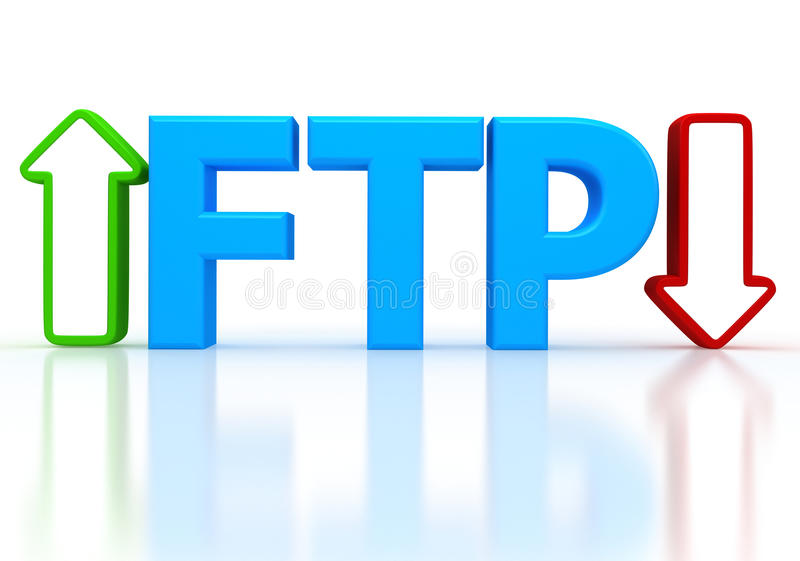
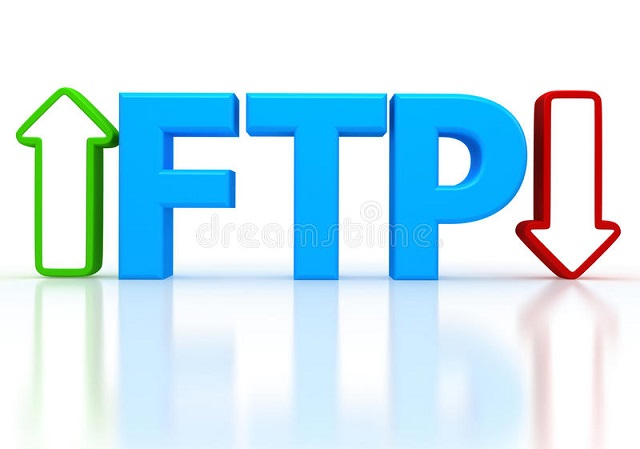
Site updated: 2018-05-23 02:54:47

diff --git a/2017/10/02/Linux/Ubuntu 16.04安装ftp-server/index.html b/2017/10/02/Linux/Ubuntu 16.04安装ftp-server/index.html
@@ -9,13 +9,14 @@
   <title>Ubuntu 16.04安装ftp-server | aparke&#39;s blog</title>
   <meta name="viewport" content="width=device-width, initial-scale=1, maximum-scale=1">
   <meta name="description" content="Welcome to aparke’s blog!">
+<meta name="keywords" content="Linux">
 <meta property="og:type" content="article">
 <meta property="og:title" content="Ubuntu 16.04安装ftp-server">
 <meta property="og:url" content="http://aparke.cn/2017/10/02/Linux/Ubuntu 16.04安装ftp-server/index.html">
 <meta property="og:site_name" content="aparke&#39;s blog">
 <meta property="og:description" content="Welcome to aparke’s blog!">
 <meta property="og:locale" content="zh-cn">
-<meta property="og:image" content="http://aparke.cn/2017/10/02/Linux/Ubuntu%2016.04安装ftp-server/ftp001.jpg">
+<meta property="og:image" content="http://aparke.cn/2017/10/02/Linux/Ubuntu%2016.04安装ftp-server/ftp000.jpg">
 <meta property="og:image" content="http://aparke.cn/2017/10/02/Linux/Ubuntu%2016.04安装ftp-server/ftp工作原理.jpg">
 <meta property="og:image" content="http://aparke.cn/2017/10/02/Linux/Ubuntu%2016.04安装ftp-server/01.jpg">
 <meta property="og:image" content="http://aparke.cn/2017/10/02/Linux/Ubuntu%2016.04安装ftp-server/version.jpg">
@@ -30,12 +31,12 @@
 <meta property="og:image" content="http://aparke.cn/2017/10/02/Linux/Ubuntu%2016.04安装ftp-server/10.jpg">
 <meta property="og:image" content="http://aparke.cn/2017/10/02/Linux/Ubuntu%2016.04安装ftp-server/11.jpg">
 <meta property="og:image" content="http://aparke.cn/2017/10/02/Linux/Ubuntu%2016.04安装ftp-server/ftp002.jpg">
-<meta property="og:image" content="http://aparke.cn/2017/10/02/Linux/Ubuntu%2016.04安装ftp-server/ftp000.jpg">
-<meta property="og:updated_time" content="2018-05-22T18:47:43.115Z">
+<meta property="og:image" content="http://aparke.cn/2017/10/02/Linux/Ubuntu%2016.04安装ftp-server/ftp001.jpg">
+<meta property="og:updated_time" content="2018-05-22T18:54:37.154Z">
 <meta name="twitter:card" content="summary">
 <meta name="twitter:title" content="Ubuntu 16.04安装ftp-server">
 <meta name="twitter:description" content="Welcome to aparke’s blog!">
-<meta name="twitter:image" content="http://aparke.cn/2017/10/02/Linux/Ubuntu%2016.04安装ftp-server/ftp001.jpg">
+<meta name="twitter:image" content="http://aparke.cn/2017/10/02/Linux/Ubuntu%2016.04安装ftp-server/ftp000.jpg">
   
     <link rel="alternative" href="/atom.xml" title="aparke&#39;s blog" type="application/atom+xml">
   
@@ -224,7 +225,7 @@ var _hmt = _hmt || [];
     
     <div class="article-entry" itemprop="articleBody">
       
-        <p>Welcome to <a href="http://aparke.cn">aparke’s blog</a>!<br><img src="/2017/10/02/Linux/Ubuntu 16.04安装ftp-server/ftp001.jpg" alt=""><br><a id="more"></a></p>
+        <p>Welcome to <a href="http://aparke.cn">aparke’s blog</a>!<br><img src="/2017/10/02/Linux/Ubuntu 16.04安装ftp-server/ftp000.jpg" alt=""><br><a id="more"></a></p>
 <h3 id="前言"><a href="#前言" class="headerlink" title="前言"></a>前言</h3><blockquote>
 <p><strong>简单介绍以下FTP</strong></p>
 </blockquote>
@@ -317,7 +318,7 @@ var _hmt = _hmt || [];
 <p>浏览器：<code>ftp://111.230.107.42</code></p>
 </blockquote>
 <p><img src="/2017/10/02/Linux/Ubuntu 16.04安装ftp-server/ftp002.jpg" alt=""></p>
-<h3 id="至此搭建完成"><a href="#至此搭建完成" class="headerlink" title="至此搭建完成"></a>至此搭建完成</h3><p><img src="/2017/10/02/Linux/Ubuntu 16.04安装ftp-server/ftp000.jpg" alt=""></p>
+<h3 id="至此搭建完成"><a href="#至此搭建完成" class="headerlink" title="至此搭建完成"></a>至此搭建完成</h3><p><img src="/2017/10/02/Linux/Ubuntu 16.04安装ftp-server/ftp001.jpg" alt=""></p>
 
       
 
@@ -347,6 +348,17 @@ var _hmt = _hmt || [];
     <div class="article-info article-info-index">
       
       
+	<div class="article-tag tagcloud">
+		<i class="icon-price-tags icon"></i>
+		<ul class="article-tag-list">
+			 
+        		<li class="article-tag-list-item">
+        			<a href="javascript:void(0)" class="js-tag article-tag-list-link color1">Linux</a>
+        		</li>
+      		
+		</ul>
+	</div>
+
       
 
       

diff --git a/tags/linux/index.html b/tags/linux/index.html
@@ -241,6 +241,44 @@ var _hmt = _hmt || [];
   <div class="archive-article-inner">
     <header class="archive-article-header">
       	<div class="article-meta">
+	      	<a href="/2017/10/02/Linux/Ubuntu 16.04安装ftp-server/" class="archive-article-date">
+  	<time datetime="2017-10-02T00:29:37.000Z" itemprop="datePublished"><i class="icon-calendar icon"></i>2017-10-02</time>
+</a>
+        </div>
+    	 
+  
+    <h1 itemprop="name">
+      <a class="archive-article-title" href="/2017/10/02/Linux/Ubuntu 16.04安装ftp-server/">Ubuntu 16.04安装ftp-server</a>
+    </h1>
+  
+
+        <div class="article-info info-on-right">
+          
+	<div class="article-tag tagcloud">
+		<i class="icon-price-tags icon"></i>
+		<ul class="article-tag-list">
+			 
+        		<li class="article-tag-list-item">
+        			<a href="javascript:void(0)" class="js-tag article-tag-list-link color1">Linux</a>
+        		</li>
+      		
+		</ul>
+	</div>
+
+          
+
+        </div>
+        <div class="clearfix"></div>
+    </header>
+  </div>
+</article>
+  
+    
+    
+    <article class="archive-article archive-type-post">
+  <div class="archive-article-inner">
+    <header class="archive-article-header">
+      	<div class="article-meta">
 	      	<a href="/2017/09/30/Linux/系统信息相关命令/" class="archive-article-date">
   	<time datetime="2017-09-30T09:20:00.000Z" itemprop="datePublished"><i class="icon-calendar icon"></i>2017-09-30</time>
 </a>

diff --git a/index.html b/index.html
@@ -522,7 +522,7 @@ var _hmt = _hmt || [];
     
     <div class="article-entry" itemprop="articleBody">
       
-        <p>Welcome to <a href="http://aparke.cn">aparke’s blog</a>!<br><img src="/2017/10/02/Linux/Ubuntu 16.04安装ftp-server/ftp001.jpg" alt=""><br></p>
+        <p>Welcome to <a href="http://aparke.cn">aparke’s blog</a>!<br><img src="/2017/10/02/Linux/Ubuntu 16.04安装ftp-server/ftp000.jpg" alt=""><br></p>
         
           <a class="article-more-a" href="/2017/10/02/Linux/Ubuntu 16.04安装ftp-server/#more">more >></a>
         
@@ -533,6 +533,17 @@ var _hmt = _hmt || [];
     <div class="article-info article-info-index">
       
       
+	<div class="article-tag tagcloud">
+		<i class="icon-price-tags icon"></i>
+		<ul class="article-tag-list">
+			 
+        		<li class="article-tag-list-item">
+        			<a href="javascript:void(0)" class="js-tag article-tag-list-link color1">Linux</a>
+        		</li>
+      		
+		</ul>
+	</div>
+
       
 
       

diff --git a/archives/2017/10/index.html b/archives/2017/10/index.html
@@ -254,6 +254,17 @@ var _hmt = _hmt || [];
 
         <div class="article-info info-on-right">
           
+	<div class="article-tag tagcloud">
+		<i class="icon-price-tags icon"></i>
+		<ul class="article-tag-list">
+			 
+        		<li class="article-tag-list-item">
+        			<a href="javascript:void(0)" class="js-tag article-tag-list-link color1">Linux</a>
+        		</li>
+      		
+		</ul>
+	</div>
+
           
 
         </div>

diff --git a/archives/2017/index.html b/archives/2017/index.html
@@ -292,6 +292,17 @@ var _hmt = _hmt || [];
 
         <div class="article-info info-on-right">
           
+	<div class="article-tag tagcloud">
+		<i class="icon-price-tags icon"></i>
+		<ul class="article-tag-list">
+			 
+        		<li class="article-tag-list-item">
+        			<a href="javascript:void(0)" class="js-tag article-tag-list-link color1">Linux</a>
+        		</li>
+      		
+		</ul>
+	</div>
+
           
 
         </div>

diff --git a/archives/index.html b/archives/index.html
@@ -378,6 +378,17 @@ var _hmt = _hmt || [];
 
         <div class="article-info info-on-right">
           
+	<div class="article-tag tagcloud">
+		<i class="icon-price-tags icon"></i>
+		<ul class="article-tag-list">
+			 
+        		<li class="article-tag-list-item">
+        			<a href="javascript:void(0)" class="js-tag article-tag-list-link color1">Linux</a>
+        		</li>
+      		
+		</ul>
+	</div>
+
           
 
         </div>
